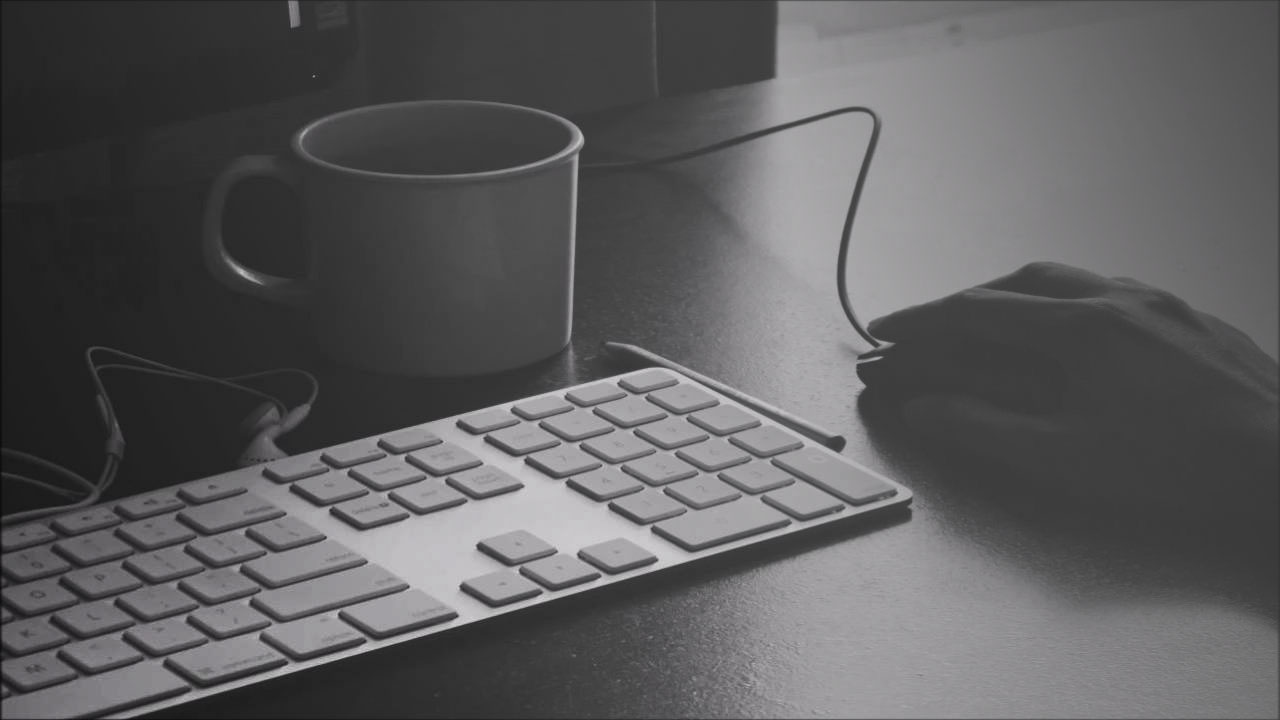
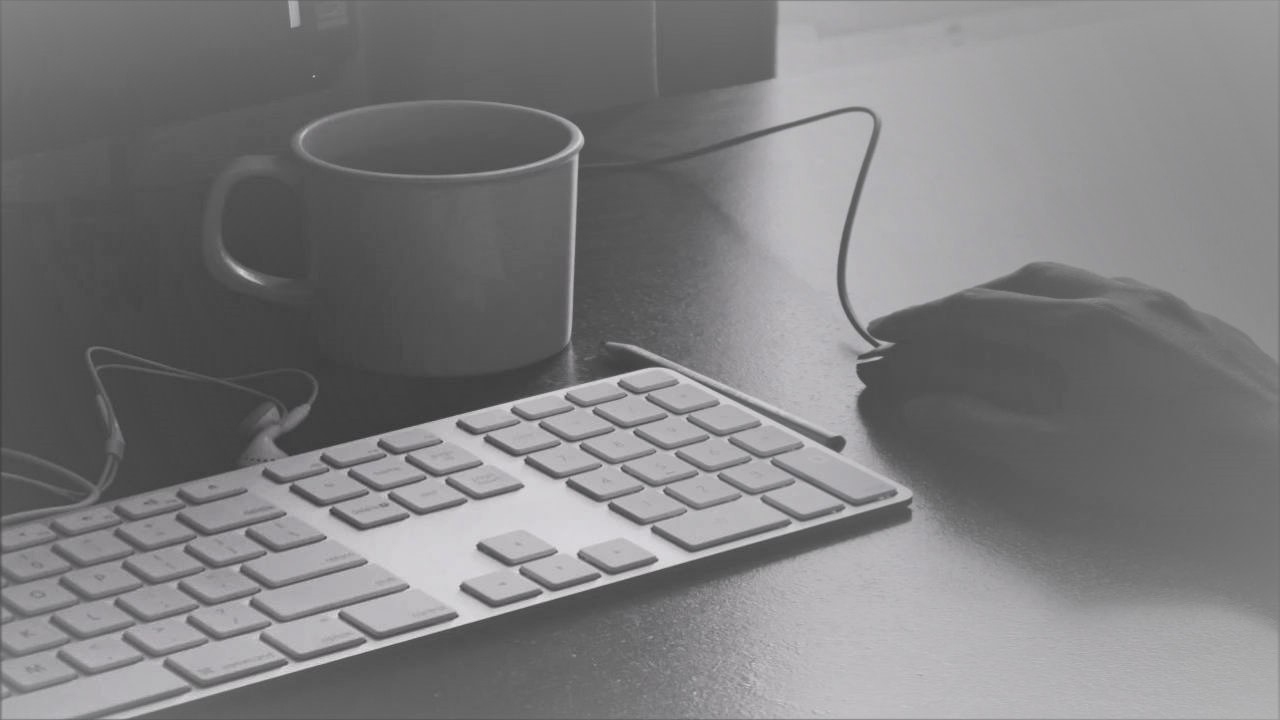
update

diff --git a/src/index.html b/src/index.html
@@ -138,7 +138,7 @@
                         It is highly recommended for you go through our OOP crash course to 
                         refresh your knowledge and learn more about OOP before you embark on our activities!
                         In this crash course, you'll be exposed to:
-                        <p><u>- Basics and Syntax of OOP -<br>- Introduction to Classes -</u></p>
+                        <p>- Basics and Syntax of OOP -<br>- Introduction to Classes -</p>
                         <button class="btn btn-outline-secondary btn-lg nus-blue-button" onclick="window.location.href = 'https://achievements-prod.firebaseapp.com/#/paths/-Lq5JUHUIbKJ024kKLh8';"> View our Crash Course</button>
                     </p>
                   </div>
@@ -764,7 +764,7 @@ li.completion {
 }
 
 .header{
- background-image: url('https://raw.githubusercontent.com/oziomek1/bt3103/master/src/images/header1.jpg');
+ background-image: url('https://raw.githubusercontent.com/oziomek1/bt3103/master/src/images/header2.jpg');
  background-attachment: fixed;
  background-size: cover;
  background-position: center;
@@ -786,12 +786,13 @@ li.completion {
   padding: 6em;
 }
 .description h1{
- color:  #EF7C00;
+ color:  rgb(247, 136, 18);
+ font-size: 50px;
  font-weight: bold;
-}
+ }
 .description p{
  color: #fff;
- font-size: 20px;
+ font-size: 30px;
  width: 60%;
  line-height: 1.5;
  text-align: center;
